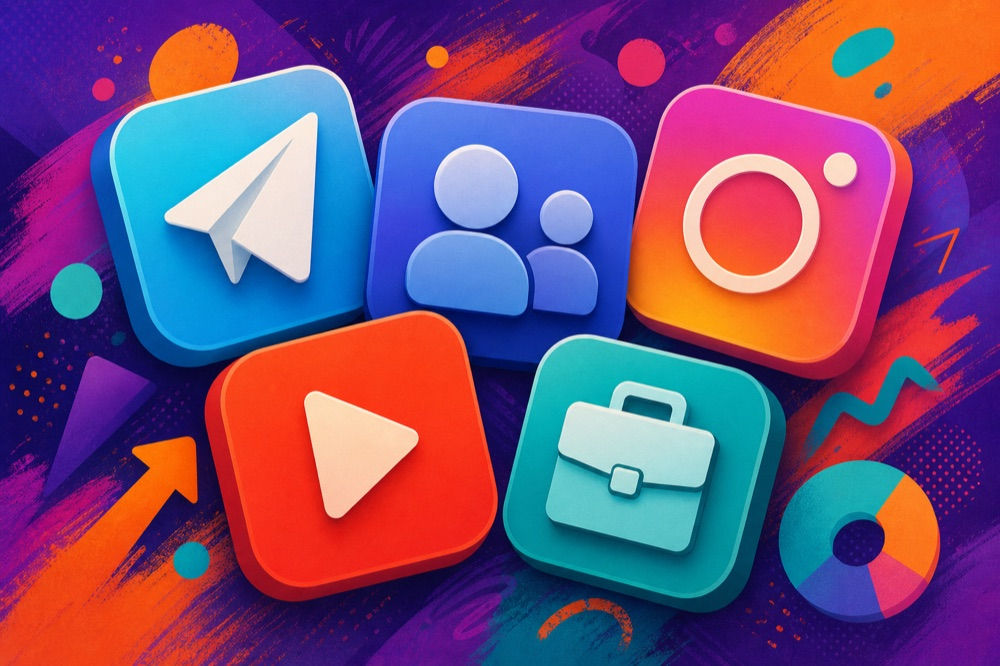
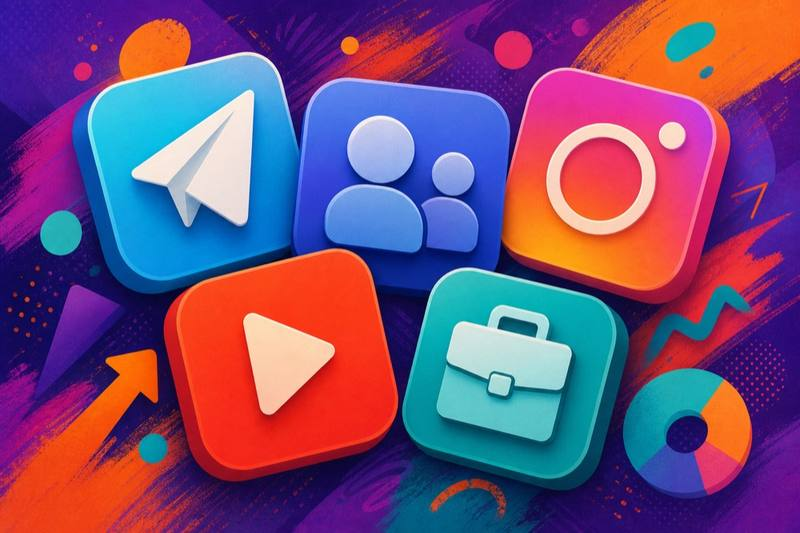
Ускорить загрузку картинок: сжатие, превью, приоритет hero

diff --git a/chast-1.html b/chast-1.html
@@ -1,6 +1,7 @@
 <!DOCTYPE html><html lang="ru"><head>
 <meta charset="UTF-8"/><meta name="viewport" content="width=device-width,initial-scale=1"/>
-<title>Часть 1</title><link rel="stylesheet" href="styles.css?v=4"/>
+<title>Часть 1</title><link rel="preload" as="image" href="assets/p1-company.jpg" fetchpriority="high"/>
+<link rel="stylesheet" href="styles.css?v=5"/>
 </head><body><nav class="nav"><div class="container nav-inner">
  <a class="logo" href="index.html">Трафик<span>Менеджер</span></a>
  <div class="nav-links">
@@ -17,7 +18,7 @@
   <p class="lead">Познакомьтесь с компанией, сутью работы, задачами, графиком и общим принципом оплаты за привлечённый трафик.</p>
   <a class="btn btn-primary" href="cabinet.html">Открыть личный кабинет</a>
  </div>
- <img loading="lazy" decoding="async" class="hero-visual" src="assets/p1-company.jpg" alt=""/>
+ <img width="800" height="533" fetchpriority="high" decoding="async" class="hero-visual" src="assets/p1-company.jpg" alt=""/>
 </div></section>
 
 <section class="section alt"><div class="container split">
@@ -30,20 +31,20 @@
     <p style="color:var(--muted);font-size:15px;margin:0">Работа оформляется по <strong>договору оказания услуг</strong>. После регистрации договор будет доступен в вашем личном кабинете.</p>
   </div>
  </div>
- <img loading="lazy" decoding="async" src="assets/p1-sources.jpg" alt="Источники трафика"/>
+ <img width="800" height="533" decoding="async" src="assets/p1-sources.jpg" alt="Источники трафика"/>
 </div></section>
 
 <section class="section"><div class="container">
  <div class="section-head"><div class="label">Направления</div><h2>С чем мы работаем</h2></div>
  <div class="grid-3">
-  <div class="card has-img"><div class="card-img"><img loading="lazy" decoding="async" src="assets/p1-manager.jpg" alt=""/></div><h3>Соискатели и вакансии</h3><p>Предложения для людей, которые ищут работу или подработку.</p></div>
-  <div class="card has-img"><div class="card-img"><img loading="lazy" decoding="async" src="assets/p1-training.jpg" alt=""/></div><h3>Онлайн-сервисы</h3><p>Образовательные продукты, сервисы и партнёрские программы.</p></div>
-  <div class="card has-img"><div class="card-img"><img loading="lazy" decoding="async" src="assets/p1-growth.jpg" alt=""/></div><h3>Целевая аудитория</h3><p>Люди, интересующиеся заработком, работой и новыми возможностями.</p></div>
+  <div class="card has-img"><div class="card-img"><img width="520" height="346" decoding="async" src="assets/thumbs/p1-manager.jpg" alt=""/></div><h3>Соискатели и вакансии</h3><p>Предложения для людей, которые ищут работу или подработку.</p></div>
+  <div class="card has-img"><div class="card-img"><img width="520" height="346" loading="lazy" decoding="async" src="assets/thumbs/p1-training.jpg" alt=""/></div><h3>Онлайн-сервисы</h3><p>Образовательные продукты, сервисы и партнёрские программы.</p></div>
+  <div class="card has-img"><div class="card-img"><img width="520" height="346" loading="lazy" decoding="async" src="assets/thumbs/p1-growth.jpg" alt=""/></div><h3>Целевая аудитория</h3><p>Люди, интересующиеся заработком, работой и новыми возможностями.</p></div>
  </div>
 </div></section>
 
 <section class="section alt"><div class="container split">
- <img loading="lazy" decoding="async" src="assets/p1-manager.jpg" alt="Трафик-менеджер"/>
+ <img width="800" height="533" loading="lazy" decoding="async" src="assets/p1-manager.jpg" alt="Трафик-менеджер"/>
  <div>
   <div class="section-head"><div class="label">Роль</div><h2>Кто такой трафик-менеджер</h2></div>
   <p style="color:var(--muted);margin-bottom:16px">Специалист, который привлекает аудиторию из интернета на предложения рекламодателей: находит источники, размещает материалы, использует персональную ссылку и отслеживает результат.</p>
@@ -62,16 +63,16 @@
  </div>
  <div class="split" style="margin-top:32px">
   <p style="color:var(--muted)">Вы находите источник трафика, размещаете рекламный материал, используете персональную ссылку. Человек переходит, оставляет заявку — результат отображается в личном кабинете.</p>
-  <img loading="lazy" decoding="async" src="assets/slide-traffic-flow.jpg" alt="Схема трафика"/>
+  <img width="800" height="533" loading="lazy" decoding="async" src="assets/slide-traffic-flow.jpg" alt="Схема трафика"/>
  </div>
- <img loading="lazy" decoding="async" src="assets/p1-flow.jpg" alt="" style="margin-top:24px;border-radius:16px;width:100%;max-height:360px;object-fit:cover;box-shadow:var(--shadow)"/>
+ <img width="800" height="533" loading="lazy" decoding="async" src="assets/p1-flow.jpg" alt="" style="margin-top:24px;border-radius:16px;width:100%;max-height:360px;object-fit:cover;box-shadow:var(--shadow)"/>
 </div></section>
 
 <section class="section alt"><div class="container">
  <div class="section-head"><div class="label">Задачи</div><h2>Чем вы будете заниматься</h2></div>
  <div class="grid-2">
-  <div class="card has-img"><div class="card-img"><img loading="lazy" decoding="async" src="assets/slide-workflow.jpg" alt=""/></div><h3>На старте</h3><ul><li>Изучать рекламные предложения</li><li>Выбирать источники трафика</li><li>Размещать материалы по инструкции</li></ul></div>
-  <div class="card has-img"><div class="card-img"><img loading="lazy" decoding="async" src="assets/slide-dashboard.jpg" alt=""/></div><h3>В процессе</h3><ul><li>Использовать персональные ссылки</li><li>Отслеживать переходы и заявки</li><li>Анализировать результат в кабинете</li></ul></div>
+  <div class="card has-img"><div class="card-img"><img width="520" height="346" loading="lazy" decoding="async" src="assets/thumbs/slide-workflow.jpg" alt=""/></div><h3>На старте</h3><ul><li>Изучать рекламные предложения</li><li>Выбирать источники трафика</li><li>Размещать материалы по инструкции</li></ul></div>
+  <div class="card has-img"><div class="card-img"><img width="520" height="346" loading="lazy" decoding="async" src="assets/thumbs/slide-dashboard.jpg" alt=""/></div><h3>В процессе</h3><ul><li>Использовать персональные ссылки</li><li>Отслеживать переходы и заявки</li><li>Анализировать результат в кабинете</li></ul></div>
  </div>
 </div></section>
 
@@ -79,16 +80,16 @@
  <div>
   <div class="section-head"><div class="label">Источники</div><h2>Откуда привлекается трафик</h2></div>
   <div class="grid-2" style="gap:12px">
-   <div class="card has-img" style="padding:12px"><div class="card-img" style="height:80px"><img loading="lazy" decoding="async" src="assets/p1-sources.jpg" alt=""/></div><p style="font-size:14px">Соцсети и мессенджеры</p></div>
-   <div class="card has-img" style="padding:12px"><div class="card-img" style="height:80px"><img loading="lazy" decoding="async" src="assets/p1-flow.jpg" alt=""/></div><p style="font-size:14px">Доски объявлений</p></div>
+   <div class="card has-img" style="padding:12px"><div class="card-img" style="height:80px"><img width="520" height="346" loading="lazy" decoding="async" src="assets/thumbs/p1-sources.jpg" alt=""/></div><p style="font-size:14px">Соцсети и мессенджеры</p></div>
+   <div class="card has-img" style="padding:12px"><div class="card-img" style="height:80px"><img width="520" height="346" loading="lazy" decoding="async" src="assets/thumbs/p1-flow.jpg" alt=""/></div><p style="font-size:14px">Доски объявлений</p></div>
   </div>
   <p style="color:var(--muted);margin-top:16px;font-size:15px">Важно работать аккуратно: не нарушать правила площадок, не использовать спам.</p>
  </div>
- <img loading="lazy" decoding="async" src="assets/slide-personal-link.jpg" alt="Персональная ссылка"/>
+ <img width="800" height="533" loading="lazy" decoding="async" src="assets/slide-personal-link.jpg" alt="Персональная ссылка"/>
 </div></section>
 
 <section class="section alt"><div class="container split">
- <img loading="lazy" decoding="async" src="assets/p1-training.jpg" alt="Обучение"/>
+ <img width="800" height="533" loading="lazy" decoding="async" src="assets/p1-training.jpg" alt="Обучение"/>
  <div>
   <div class="section-head"><div class="label">Обучение</div><h2>Опыт не обязателен</h2></div>
   <p style="color:var(--muted)">Бесплатное обучение: трафик, ссылки, источники, размещение материалов, статистика и правила площадок.</p>
@@ -97,12 +98,12 @@
 
 <section class="section"><div class="container grid-2">
  <div class="card has-img">
-  <div class="card-img"><img loading="lazy" decoding="async" src="assets/p1-schedule.jpg" alt=""/></div>
+  <div class="card-img"><img width="520" height="346" loading="lazy" decoding="async" src="assets/thumbs/p1-schedule.jpg" alt=""/></div>
   <div class="section-head" style="margin-bottom:12px"><div class="label">График</div><h2>Удалённый формат</h2></div>
   <ul><li>Работа из дома</li><li>Гибкий график, можно совмещать</li><li>Результат зависит от регулярности</li></ul>
  </div>
  <div class="card has-img">
-  <div class="card-img"><img loading="lazy" decoding="async" src="assets/p1-payment.jpg" alt=""/></div>
+  <div class="card-img"><img width="520" height="346" loading="lazy" decoding="async" src="assets/thumbs/p1-payment.jpg" alt=""/></div>
   <div class="section-head" style="margin-bottom:12px"><div class="label">Оплата</div><h2>За подтверждённый лид</h2></div>
   <ul>
     <li><strong>Оплата за лид — от 350 ₽ и выше</strong> (зависит от предложения)</li>
@@ -120,14 +121,14 @@
   <div class="step"><div class="step-num">2</div><div><h3>Переходы и заявки</h3><p>Люди переходят и оставляют заявки — фиксируется в кабинете.</p></div></div>
   <div class="step"><div class="step-num">3</div><div><h3>Проверка и начисление</h3><p>Подтверждённые заявки учитываются в статистике и оплачиваются.</p></div></div>
  </div>
- <div class="feature-banner"><img loading="lazy" decoding="async" src="assets/p1-growth.jpg" alt=""/><div class="cap"><div><h3 style="font-size:22px;margin-bottom:8px">Качество важнее количества</h3><p style="color:#cbd5e1">Не каждый переход — заявка. Не каждая заявка подтверждается.</p></div></div></div>
+ <div class="feature-banner"><img width="800" height="533" loading="lazy" decoding="async" src="assets/p1-growth.jpg" alt=""/><div class="cap"><div><h3 style="font-size:22px;margin-bottom:8px">Качество важнее количества</h3><p style="color:#cbd5e1">Не каждый переход — заявка. Не каждая заявка подтверждается.</p></div></div></div>
 </div></section>
 
 <section class="section"><div class="container">
  <div class="highlight"><h3>Важно понимать</h3><p>Мы не обещаем гарантированный доход. Трафик — практический навык: обучение, практика, анализ и соблюдение правил.</p></div>
  <div class="grid-2" style="margin-top:24px">
-  <div class="card has-img"><div class="card-img"><img loading="lazy" decoding="async" src="assets/p1-skill.jpg" alt=""/></div><h3>От чего зависит доход</h3><ul><li>Активность и источники</li><li>Качество аудитории</li><li>Анализ статистики</li></ul></div>
-  <div class="card has-img"><div class="card-img"><img loading="lazy" decoding="async" src="assets/p1-next.jpg" alt=""/></div><h3>Кому подойдёт</h3><ul><li>Удалённая работа</li><li>Готовность обучаться</li><li>Выполнение инструкций</li></ul></div>
+  <div class="card has-img"><div class="card-img"><img width="520" height="346" loading="lazy" decoding="async" src="assets/thumbs/p1-skill.jpg" alt=""/></div><h3>От чего зависит доход</h3><ul><li>Активность и источники</li><li>Качество аудитории</li><li>Анализ статистики</li></ul></div>
+  <div class="card has-img"><div class="card-img"><img width="520" height="346" loading="lazy" decoding="async" src="assets/thumbs/p1-next.jpg" alt=""/></div><h3>Кому подойдёт</h3><ul><li>Удалённая работа</li><li>Готовность обучаться</li><li>Выполнение инструкций</li></ul></div>
  </div>
  <div class="cta-row" style="margin-top:32px">
   <a class="btn btn-primary" href="chast-2.html">Часть 2 — выплаты</a>

diff --git a/chast-2.html b/chast-2.html
@@ -1,6 +1,7 @@
 <!DOCTYPE html><html lang="ru"><head>
 <meta charset="UTF-8"/><meta name="viewport" content="width=device-width,initial-scale=1"/>
-<title>Часть 2</title><link rel="stylesheet" href="styles.css?v=4"/>
+<title>Часть 2</title><link rel="preload" as="image" href="assets/p2-official.jpg" fetchpriority="high"/>
+<link rel="stylesheet" href="styles.css?v=5"/>
 </head><body><nav class="nav"><div class="container nav-inner">
  <a class="logo" href="index.html">Трафик<span>Менеджер</span></a>
  <div class="nav-links">
@@ -16,7 +17,7 @@
   <h1>Официальное сотрудничество, выплаты и расчётный счёт</h1>
   <p class="lead">После знакомства с личным кабинетом — выплаты, расчётный счёт, банк-партнёр и форматы работы.</p>
  </div>
- <img loading="lazy" decoding="async" class="hero-visual" src="assets/p2-official.jpg" alt=""/>
+ <img width="800" height="533" fetchpriority="high" decoding="async" class="hero-visual" src="assets/p2-official.jpg" alt=""/>
 </div></section>
 
 <section class="section alt"><div class="container split">
@@ -24,20 +25,20 @@
   <div class="section-head"><div class="label">Официально</div><h2>Прозрачное сотрудничество</h2></div>
   <p style="color:var(--muted)">ООО «Фаст Таск». Сотрудничество по договору оказания услуг — документ в личном кабинете. Прозрачный порядок — для корректных выплат и безопасности обеих сторон.</p>
  </div>
- <img loading="lazy" decoding="async" src="assets/p2-bank.jpg" alt="Банк"/>
+ <img width="800" height="533" decoding="async" src="assets/p2-bank.jpg" alt="Банк"/>
 </div></section>
 
 <section class="section"><div class="container">
  <div class="section-head"><div class="label">Выплаты</div><h2>На расчётный счёт</h2></div>
  <div class="grid-3">
-  <div class="card has-img"><div class="card-img"><img loading="lazy" decoding="async" src="assets/p1-payment.jpg" alt=""/></div><h3>Получение выплат</h3><p>За подтверждённые заявки по условиям рекламодателя.</p></div>
-  <div class="card has-img"><div class="card-img"><img loading="lazy" decoding="async" src="assets/p2-official.jpg" alt=""/></div><h3>Документы</h3><p>Договор, акты, реквизиты в официальном формате.</p></div>
-  <div class="card has-img"><div class="card-img"><img loading="lazy" decoding="async" src="assets/slide-dashboard.jpg" alt=""/></div><h3>Учёт в кабинете</h3><p>Начисления отображаются в личном кабинете.</p></div>
+  <div class="card has-img"><div class="card-img"><img width="520" height="346" decoding="async" src="assets/thumbs/p1-payment.jpg" alt=""/></div><h3>Получение выплат</h3><p>За подтверждённые заявки по условиям рекламодателя.</p></div>
+  <div class="card has-img"><div class="card-img"><img width="520" height="346" loading="lazy" decoding="async" src="assets/thumbs/p2-official.jpg" alt=""/></div><h3>Документы</h3><p>Договор, акты, реквизиты в официальном формате.</p></div>
+  <div class="card has-img"><div class="card-img"><img width="520" height="346" loading="lazy" decoding="async" src="assets/thumbs/slide-dashboard.jpg" alt=""/></div><h3>Учёт в кабинете</h3><p>Начисления отображаются в личном кабинете.</p></div>
  </div>
 </div></section>
 
 <section class="section alt"><div class="container split">
- <img loading="lazy" decoding="async" src="assets/slide-dashboard.jpg" alt="Кабинет"/>
+ <img width="800" height="533" loading="lazy" decoding="async" src="assets/slide-dashboard.jpg" alt="Кабинет"/>
  <div>
   <div class="section-head"><div class="label">Зачем счёт</div><h2>Для чего нужен расчётный счёт</h2></div>
   <ul style="list-style:none;color:var(--muted);font-size:15px">
@@ -55,8 +56,8 @@
 <section class="section alt"><div class="container">
  <div class="section-head"><div class="label">Сценарии</div><h2>Если счёт есть — и если нет</h2></div>
  <div class="grid-2">
-  <div class="card has-img"><div class="card-img"><img loading="lazy" decoding="async" src="assets/p2-curator.jpg" alt=""/></div><h3>Счёт уже открыт</h3><ul><li>Сообщите куратору</li><li>Передайте реквизиты</li><li>Дождитесь инструкций</li></ul></div>
-  <div class="card has-img"><div class="card-img"><img loading="lazy" decoding="async" src="assets/p2-application.jpg" alt=""/></div><h3>Счёта пока нет</h3><ul><li>Ссылка в боте → банк-партнёр</li><li>«Я подал заявку» → куратор</li></ul></div>
+  <div class="card has-img"><div class="card-img"><img width="520" height="346" loading="lazy" decoding="async" src="assets/thumbs/p2-curator.jpg" alt=""/></div><h3>Счёт уже открыт</h3><ul><li>Сообщите куратору</li><li>Передайте реквизиты</li><li>Дождитесь инструкций</li></ul></div>
+  <div class="card has-img"><div class="card-img"><img width="520" height="346" loading="lazy" decoding="async" src="assets/thumbs/p2-application.jpg" alt=""/></div><h3>Счёта пока нет</h3><ul><li>Ссылка в боте → банк-партнёр</li><li>«Я подал заявку» → куратор</li></ul></div>
  </div>
 </div></section>
 
@@ -67,20 +68,20 @@
   <div class="step"><div class="step-num">2</div><div><h3>Заявка онлайн</h3><p>Корректные данные, изучите тарифы.</p></div></div>
   <div class="step"><div class="step-num">3</div><div><h3>Куратор</h3><p>«Я подал заявку» в боте — дальнейшие шаги.</p></div></div>
  </div>
- <img loading="lazy" decoding="async" src="assets/p2-application.jpg" alt="" style="margin-top:24px;border-radius:16px;width:100%;max-height:320px;object-fit:cover;box-shadow:var(--shadow)"/>
+ <img width="800" height="533" loading="lazy" decoding="async" src="assets/p2-application.jpg" alt="" style="margin-top:24px;border-radius:16px;width:100%;max-height:320px;object-fit:cover;box-shadow:var(--shadow)"/>
 </div></section>
 
 <section class="section alt"><div class="container">
  <div class="section-head"><div class="label">Форматы</div><h2>Варианты работы</h2></div>
  <div class="grid-3">
-  <div class="card has-img"><div class="card-img"><img loading="lazy" decoding="async" src="assets/p2-formats.jpg" alt=""/></div><h3>Самозанятый</h3><p>Формат выплат уточняется с куратором.</p></div>
-  <div class="card has-img"><div class="card-img"><img loading="lazy" decoding="async" src="assets/p2-bank.jpg" alt=""/></div><h3>ИП</h3><p>Счёт для выплат и документов.</p></div>
-  <div class="card has-img"><div class="card-img"><img loading="lazy" decoding="async" src="assets/p2-official.jpg" alt=""/></div><h3>Индивидуально</h3><p>Согласуется с куратором.</p></div>
+  <div class="card has-img"><div class="card-img"><img width="520" height="346" loading="lazy" decoding="async" src="assets/thumbs/p2-formats.jpg" alt=""/></div><h3>Самозанятый</h3><p>Формат выплат уточняется с куратором.</p></div>
+  <div class="card has-img"><div class="card-img"><img width="520" height="346" loading="lazy" decoding="async" src="assets/thumbs/p2-bank.jpg" alt=""/></div><h3>ИП</h3><p>Счёт для выплат и документов.</p></div>
+  <div class="card has-img"><div class="card-img"><img width="520" height="346" loading="lazy" decoding="async" src="assets/thumbs/p2-official.jpg" alt=""/></div><h3>Индивидуально</h3><p>Согласуется с куратором.</p></div>
  </div>
 </div></section>
 
 <section class="section"><div class="container split">
- <img loading="lazy" decoding="async" src="assets/p2-curator.jpg" alt="Куратор"/>
+ <img width="800" height="533" loading="lazy" decoding="async" src="assets/p2-curator.jpg" alt="Куратор"/>
  <div>
   <div class="section-head"><div class="label">Куратор</div><h2>Сопровождение на старте</h2></div>
   <p style="color:var(--muted)">Проверит этапы, ответит на вопросы, уточнит формат и реквизиты. Не делает работу за вас — помогает пройти организационные шаги.</p>

diff --git a/index.html b/index.html
@@ -1,6 +1,7 @@
 <!DOCTYPE html><html lang="ru"><head>
 <meta charset="UTF-8"/><meta name="viewport" content="width=device-width,initial-scale=1"/>
-<title>Вакансия трафик-менеджер</title><link rel="stylesheet" href="styles.css?v=4"/>
+<title>Вакансия трафик-менеджер</title><link rel="preload" as="image" href="assets/p1-welcome.jpg" fetchpriority="high"/>
+<link rel="stylesheet" href="styles.css?v=5"/>
 </head><body><nav class="nav"><div class="container nav-inner">
  <a class="logo" href="index.html">Трафик<span>Менеджер</span></a>
  <div class="nav-links">
@@ -21,36 +22,36 @@
    <a class="btn btn-secondary" href="cabinet.html">Личный кабинет</a>
   </div>
  </div>
- <img loading="lazy" decoding="async" class="hero-visual" src="assets/p1-welcome.jpg" alt=""/>
+ <img width="800" height="533" fetchpriority="high" decoding="async" class="hero-visual" src="assets/p1-welcome.jpg" alt=""/>
 </div></section>
 <section class="section"><div class="container">
  <div class="section-head"><div class="label">Как устроен материал</div><h2>Два этапа знакомства с вакансией</h2>
  <p>Материал составлен по полному сценарию: без обещаний «лёгких денег», с понятным объяснением механики трафика и организационных шагов.</p></div>
  <div class="grid-2">
   <a class="card has-img" href="chast-1.html" style="display:block">
-   <div class="card-img"><img loading="lazy" decoding="async" src="assets/p1-manager.jpg" alt=""/></div>
+   <div class="card-img"><img width="520" height="346" decoding="async" src="assets/thumbs/p1-manager.jpg" alt=""/></div>
    <div class="label" style="color:var(--blue);font-size:12px;font-weight:800;letter-spacing:.1em;margin-bottom:8px">ЧАСТЬ 1</div>
    <h3>Компания, задачи, график и оплата</h3>
    <p>Кто такой трафик-менеджер, с чем вы будете работать, откуда привлекается аудитория, как устроено обучение и начисления.</p>
   </a>
   <a class="card has-img" href="chast-2.html" style="display:block">
-   <div class="card-img"><img loading="lazy" decoding="async" src="assets/p2-official.jpg" alt=""/></div>
+   <div class="card-img"><img width="520" height="346" decoding="async" src="assets/thumbs/p2-official.jpg" alt=""/></div>
    <div class="label" style="color:var(--teal);font-size:12px;font-weight:800;letter-spacing:.1em;margin-bottom:8px">ЧАСТЬ 2</div>
    <h3>Официальное сотрудничество и расчётный счёт</h3>
    <p>Выплаты на расчётный счёт, банк-партнёр, варианты для ИП и самозанятых, роль куратора.</p>
   </a>
  </div>
  <a class="card has-img" href="cabinet.html" style="display:block;margin-top:24px">
-  <div class="card-img"><img loading="lazy" decoding="async" src="assets/slide-dashboard.jpg" alt=""/></div>
+  <div class="card-img"><img width="520" height="346" loading="lazy" decoding="async" src="assets/thumbs/slide-dashboard.jpg" alt=""/></div>
   <div class="label" style="color:var(--blue);font-size:12px;font-weight:800;letter-spacing:.1em;margin-bottom:8px">КАБИНЕТ</div>
   <h3>Личный кабинет трафик-менеджера</h3>
   <p>Рабочий интерфейс: персональные ссылки, статистика переходов и заявок, предложения, источники и выплаты.</p>
  </a>
  <div class="img-strip">
-  <img loading="lazy" decoding="async" src="assets/slide-traffic-flow.jpg" alt=""/>
-  <img loading="lazy" decoding="async" src="assets/slide-personal-link.jpg" alt=""/>
-  <img loading="lazy" decoding="async" src="assets/p1-flow.jpg" alt=""/>
-  <img loading="lazy" decoding="async" src="assets/p1-payment.jpg" alt=""/>
+  <img width="800" height="533" loading="lazy" decoding="async" src="assets/slide-traffic-flow.jpg" alt=""/>
+  <img width="800" height="533" loading="lazy" decoding="async" src="assets/slide-personal-link.jpg" alt=""/>
+  <img width="800" height="533" loading="lazy" decoding="async" src="assets/p1-flow.jpg" alt=""/>
+  <img width="800" height="533" loading="lazy" decoding="async" src="assets/p1-payment.jpg" alt=""/>
  </div>
 
 <section class="section alt"><div class="container">

diff --git a/cabinet.html b/cabinet.html
@@ -4,7 +4,7 @@
 <meta charset="UTF-8"/>
 <meta name="viewport" content="width=device-width,initial-scale=1"/>
 <title>Личный кабинет — Трафик-менеджер</title>
-<link rel="stylesheet" href="styles.css?v=4"/>
+<link rel="stylesheet" href="styles.css?v=5"/>
 <link rel="stylesheet" href="cabinet.css"/>
 <script src="https://cdn.jsdelivr.net/npm/chart.js@4.4.1/dist/chart.umd.min.js"></script>
 </head>
@@ -88,9 +88,9 @@
    <div class="split" style="display:grid;grid-template-columns:1fr 1fr;gap:32px;align-items:center;margin-bottom:32px">
     <div>
      <p style="color:var(--muted);margin-bottom:16px">Разместите ссылку в разрешённом источнике. Переход фиксируется в системе и отображается в статистике.</p>
-     <img loading="lazy" decoding="async" src="assets/slide-personal-link.jpg" alt="" style="border-radius:12px;box-shadow:var(--shadow)"/>
+     <img width="800" height="533" decoding="async" src="assets/slide-personal-link.jpg" alt="" style="border-radius:12px;box-shadow:var(--shadow)"/>
     </div>
-    <img loading="lazy" decoding="async" src="assets/slide-traffic-flow.jpg" alt="" style="border-radius:12px;box-shadow:var(--shadow)"/>
+    <img width="800" height="533" decoding="async" src="assets/slide-traffic-flow.jpg" alt="" style="border-radius:12px;box-shadow:var(--shadow)"/>
    </div>
    <div class="table-wrap"><table class="data"><thead><tr><th>Предложение</th><th>Ссылка</th><th>Переходы</th><th>Заявки</th><th></th></tr></thead><tbody id="linksTable"></tbody></table></div>
   </section>
@@ -127,7 +127,7 @@
     <div class="chart-box"><h3>Динамика за неделю</h3><canvas id="chartWeek"></canvas></div>
     <div class="chart-box"><h3>Подтверждённые заявки</h3><canvas id="chartConfirmed"></canvas></div>
    </div>
-   <img loading="lazy" decoding="async" src="assets/slide-dashboard.jpg" alt="" style="width:100%;max-height:280px;object-fit:cover;border-radius:16px;margin-top:8px;box-shadow:var(--shadow)"/>
+   <img width="800" height="533" decoding="async" src="assets/slide-dashboard.jpg" alt="" style="width:100%;max-height:280px;object-fit:cover;border-radius:16px;margin-top:8px;box-shadow:var(--shadow)"/>
   </section>
 
   <!-- ВЫПЛАТЫ -->
@@ -141,7 +141,7 @@
     <div class="kpi"><div class="t">Выплачено за месяц</div><div class="v">18 200 ₽</div><div class="d">На расчётный счёт</div></div>
    </div>
    <div class="split" style="display:grid;grid-template-columns:1fr 1fr;gap:32px;align-items:center;margin-bottom:24px">
-    <img loading="lazy" decoding="async" src="assets/p2-bank.jpg" alt="" style="border-radius:12px"/>
+    <img width="800" height="533" loading="lazy" decoding="async" src="assets/p2-bank.jpg" alt="" style="border-radius:12px"/>
     <div class="card"><h3>ООО «Фаст Таск»</h3><p style="color:var(--muted);font-size:14px;margin-top:8px">Работа по договору оказания услуг<br/>Расчётный счёт подключён · статус: активен<br/>Формат: самозанятый (уточнено с куратором)</p></div>
    </div>
    <div class="table-wrap"><table class="data"><thead><tr><th>Период</th><th>Подтверждено</th><th>Сумма</th><th>Статус выплаты</th></tr></thead><tbody id="payoutTable"></tbody></table></div>
@@ -239,7 +239,7 @@ document.getElementById('dashLeads').innerHTML = leads.slice(0,5).map(l=>
 
 document.getElementById('offerGrid').innerHTML = offers.map(o=>`
  <div class="offer-card">
-  <img loading="lazy" decoding="async" src="assets/${o.img}" alt=""/>
+  <img loading="lazy" decoding="async" src="assets/thumbs/${o.img}" alt=""/>
   <div class="body">
    <h4>${o.t}</h4><p>${o.d}</p>
    <div class="meta"><span>${o.rate}</span><span class="tag ${o.on?'blue':'yellow'}">${o.on?'Доступно':'Пауза'}</span></div>

diff --git a/styles.css b/styles.css
@@ -94,7 +94,6 @@ img{max-width:100%;display:block}
 @media(max-width:900px){.footer-grid{grid-template-columns:1fr 1fr}}
 @media(max-width:600px){.footer-grid{grid-template-columns:1fr}}
 
-img{max-width:100%;height:auto}
-.card-img img,.hero-visual,.split img{object-fit:cover;background:#e2e8f0}
-.hero-visual{min-height:240px}
-.card-img{min-height:140px;background:#e2e8f0}
+.card-img img,.hero-visual,.split img{object-fit:cover}
+.hero-visual{background:#e2e8f0}
+.card-img{background:#e2e8f0}
